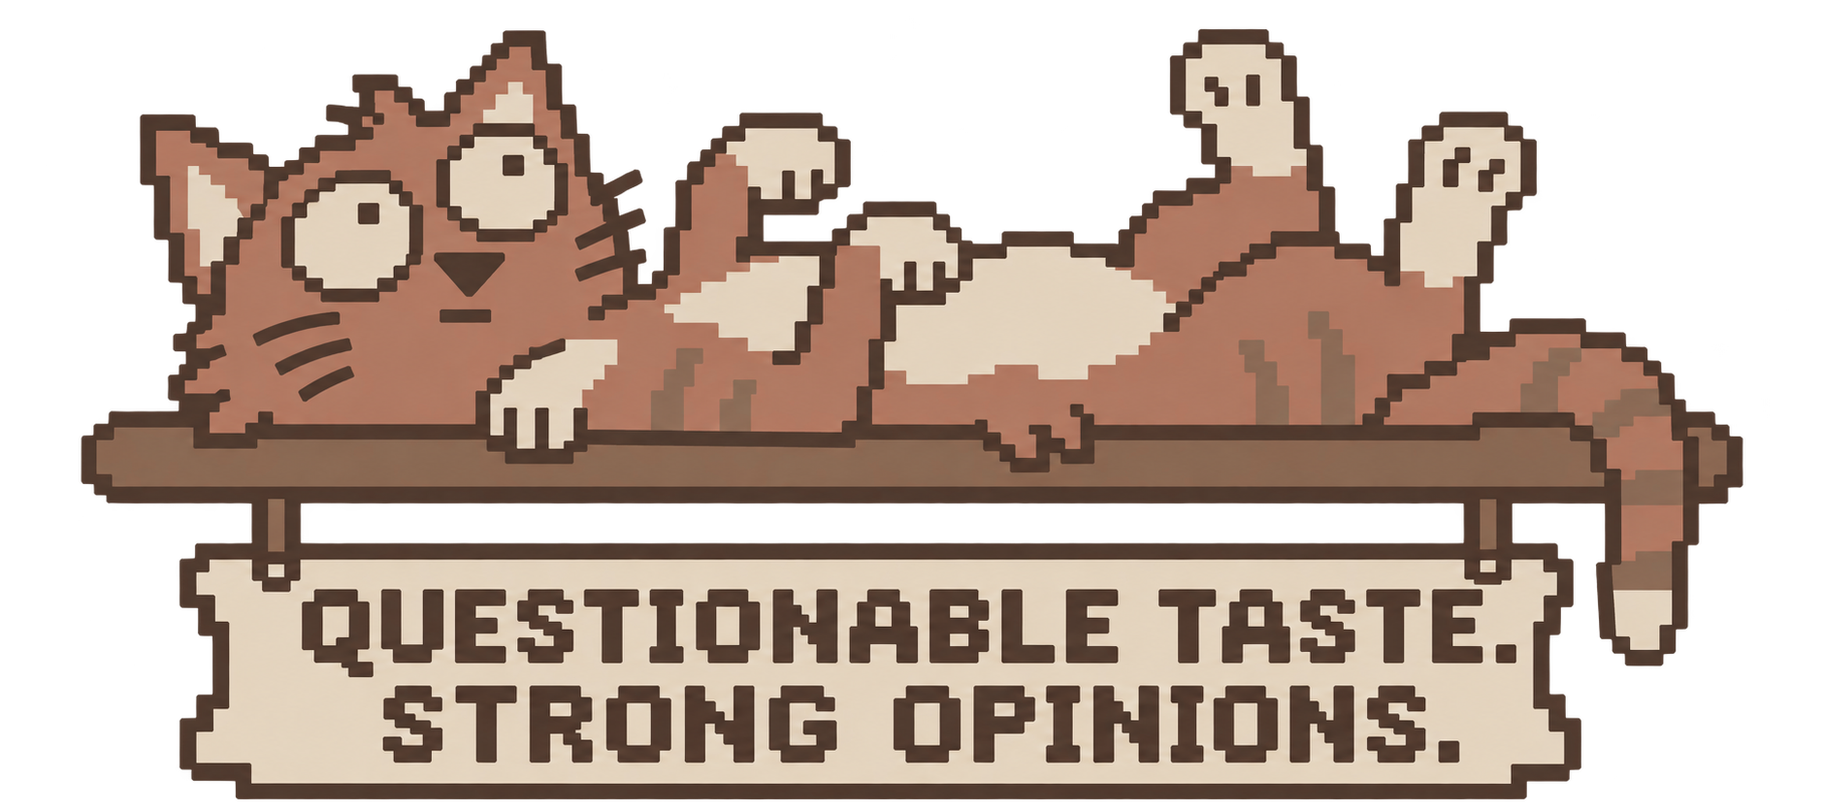
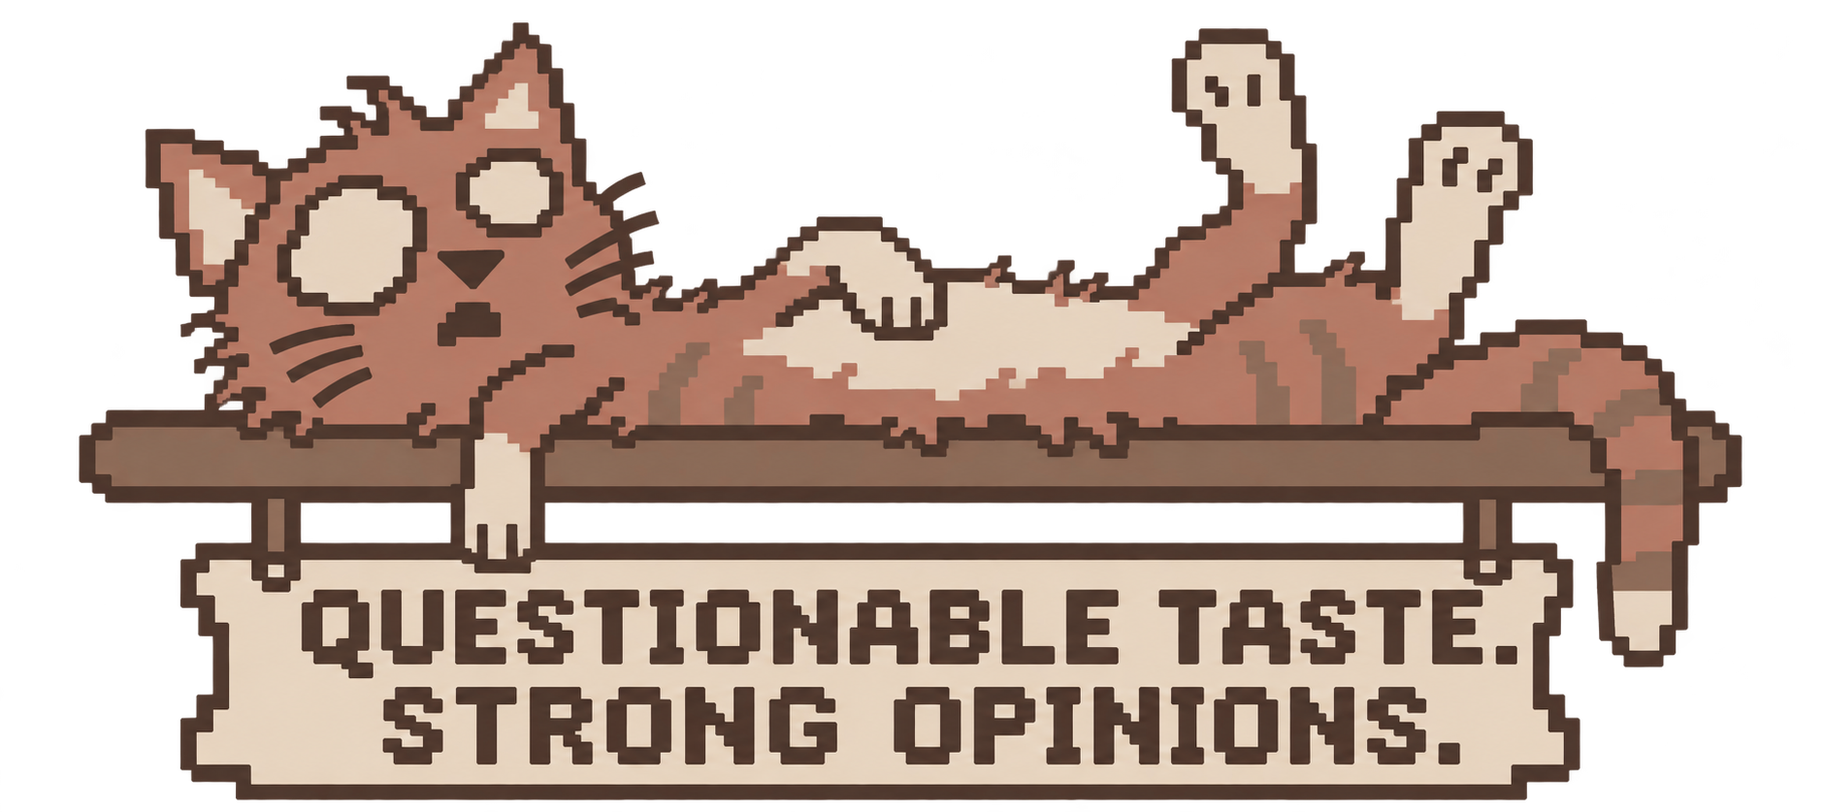
Add fractional bean slider and refine exhausted cat pose

diff --git a/src/App.jsx b/src/App.jsx
@@ -1,8 +1,8 @@
-import BeanRating from './BeanRating.jsx';
+import BeanRating,{coffeeVerdict} from './BeanRating.jsx';
 import Character from './Character.jsx';
 import React,{useState,useEffect} from 'react';
 const people=['Tiago','Sam','Archie'];
-const grades=['Piss','Regrettable','Barely coffee','It’ll do','Unremarkable','Decent','Worth a detour','Proper good','Outstanding','Coffee Excelence'];
+
 async function api(path,method='GET',data){const r=await fetch('/api/'+path,{method,headers:data?{'Content-Type':'application/json'}:undefined,body:data?JSON.stringify(data):undefined});const body=await r.json();if(!r.ok)throw new Error(body.error);return body;}
 export default function App({Cup,PourCard}){
  const routeName=people.find(p=>location.pathname==='/users/'+p.toLowerCase());
@@ -18,7 +18,7 @@ export default function App({Cup,PourCard}){
  return <main className="single full-app" data-roast={roast}><article className="study study-3"><header><span className="wordmark">sippin’<br/><i>diesel.</i><span className="mark-dot">✦</span></span><div className="club-perch"><img className="cat-banner" src="/assets/coffee/cat-banner.png" alt="A scruffy cat lying belly-up on a ledge above a banner: Questionable taste. Strong opinions."/></div></header>
  <div className="roast-picker"><button className="roast-trigger" aria-expanded={roastOpen} aria-controls="roast-panel" onClick={()=>setRoastOpen(!roastOpen)}><svg viewBox="0 0 24 24" width="21" height="21" fill="none" aria-hidden="true"><ellipse cx="12" cy="12" rx="7" ry="10" transform="rotate(35 12 12)" stroke="currentColor" strokeWidth="1.4"/><path d="M17 4c-8 3-1 12-10 16" stroke="currentColor" strokeWidth="1.4"/></svg><span>Roast level</span><small>{['Light','Medium','Dark','Midnight'][roast]}</small><span aria-hidden="true">{roastOpen?'−':'+'}</span></button>{roastOpen&&<div id="roast-panel" className="roast-panel" onKeyDown={e=>{if(e.key==='Escape'){setRoastOpen(false);e.currentTarget.parentElement.querySelector('button').focus();}}}><PourCard enabled><div className="roast-control"><span className="eyebrow">PALETTE TASTING / 0{roast+1}</span><label htmlFor="roast-level">Roast level <strong>{['Light · original','Medium','Dark','Midnight'][roast]}</strong></label><div className="roast-track" style={{'--roast-fill':`${roast/3*100}%`}}><input id="roast-level" type="range" min="0" max="3" step="1" value={roast} aria-valuetext={['Light, original palette','Medium roast','Dark roast','Midnight roast'][roast]} onChange={e=>setRoast(Number(e.target.value))}/></div><div className="roast-stops">{['Light','Medium','Dark','Midnight'].map((level,i)=><button key={level} aria-pressed={roast===i} onClick={()=>setRoast(i)}><i style={{background:['#dbb78b','#a76f43','#65402d','#30231c'][i]}}/>{level}</button>)}</div><p>A little darker. Same questionable taste.</p><button className="text-button" onClick={()=>setRoastOpen(false)}>That’s my roast ✓</button></div></PourCard></div>}</div>{user&&<nav><a href="#journal">The journal</a><a className="member" href="/">{user} · Switch person</a><button onClick={()=>setLeaveWarning(true)}>Leave the club</button></nav>}
  <section className={'hero '+(user?'member-hero':'')}><div className="eyebrow">TIAGO, SAM & ARCHIE</div><h1>“Meet you by<br/><em>the piss door”</em></h1><p>Three mates pretending they can taste the chocolate notes.</p><Cup rust/><span className="hero-caption">A PRIVATE COFFEE CLUB. VERY LOOSE STANDARDS.</span>{user&&<button className="primary" onClick={()=>setEditor({})}>＋ Log a coffee</button>}</section>
- {!ready?<p role="status">Putting the kettle on…</p>:!routeName?<section className="choose-person"><div className="section-title"><h2>Pick your usual suspect.</h2></div><p>Same password. Different questionable opinions.</p><div className="people-grid">{people.map(name=><PourCard key={name} enabled organic><a className="person-card" href={'/users/'+name.toLowerCase()}><Character name={name}/><h2>{name}</h2><span>{name==='Tiago'?'Strong coffee. Stronger opinions.':name==='Sam'?'A turtleneck does not count as expertise.':'All limbs. No tasting qualifications.'}</span><strong>That’s me ↗</strong></a></PourCard>)}</div></section>:!user?<form className="login-paper personal-login" onSubmit={login}><Character name={routeName}/><div className="eyebrow">MEMBERS ONLY, UNFORTUNATELY</div><h2>{routeName}, your usual?</h2><input type="hidden" name="name" value={routeName}/><label>Club password<input name="password" type="password" required autoComplete="current-password"/></label><button className="primary" disabled={busy}>{busy?'Opening the door…':'Let me in'}</button><a className="text-button" href="/">Not {routeName}? Pick your person.</a><p className="fine-print">One shared password. Three questionable palates.</p></form>:<section id="journal" className="app-journal"><div className="section-title"><h2>The latest pours</h2><span>{journal.reviews.length} ENTRIES / {journal.cafes.length} CAFÉS</span></div><div className="filters"><label>Find a café<input type="search" placeholder="Somewhere worth going back to…" value={filter} onChange={e=>setFilter(e.target.value)}/></label><label>Whose opinion?<select value={person} onChange={e=>setPerson(e.target.value)}>{['All',...people].map(p=><option key={p}>{p}</option>)}</select></label></div><div className="cafe-grid">{filtered.map((c,cafeIndex)=>{const reviews=journal.reviews.filter(r=>r.cafe_id===c.id&&(person==='All'||r.author===person));return <PourCard key={c.id} enabled>{reviews.length>0&&cafeIndex%3===0&&<img className="coffee-sticker cafe-sticker" src={'/assets/coffee/'+['beans','espresso','moka','filter','bag','croissant'][Array.from(c.id).reduce((sum,char)=>sum+char.charCodeAt(0),0)%6]+'.png'} alt="" aria-hidden="true"/>}<div className="cafe-heading"><div><span className="eyebrow">FIELD NOTES / {c.date_added_text||'THE NEXT FIND'}</span><h2>{c.name}</h2>{c.address&&<p>{c.address}</p>}</div><a className="maps-link" href={c.maps_url} target="_blank" rel="noreferrer">Maps ↗</a></div>{reviews.length?reviews.map(r=><article className="coffee-entry" key={r.id}>{Boolean(r.has_photo)&&<a href={'/api/photos/'+r.id} target="_blank" rel="noreferrer"><img className="review-photo" loading="lazy" src={'/api/photos/'+r.id+'?v='+encodeURIComponent(r.updated_at)} alt={`${r.coffee||'Coffee'} at ${c.name}, photographed by ${r.author}`}/></a>}<div className="entry-top"><h3>{r.coffee||'From the original coffee list'}</h3><BeanRating score={r.score}/></div><span className="grade-name">{grades[r.score-1]}</span><p className="tasting-note">{r.notes||'Lost for words. Apparently.'}</p><div className="entry-meta"><span>{r.author} · {r.visited_on||`${r.date_text} · year not recorded`}{r.milk?' · '+r.milk:''}</span>{r.author===user&&<button onClick={()=>setEditor(r)}>Edit</button>}</div></article>):<p className="empty-note">{person==='All'?'On the list. Still awaiting a verdict.':`${person} hasn’t weighed in here yet.`}</p>}<button className="text-button" onClick={()=>setEditor({cafe_id:c.id})}>＋ Another cup here</button></PourCard>})}</div>{!filtered.length&&<p>No cafés match that search.</p>}</section>}
+ {!ready?<p role="status">Putting the kettle on…</p>:!routeName?<section className="choose-person"><div className="section-title"><h2>Pick your usual suspect.</h2></div><p>Same password. Different questionable opinions.</p><div className="people-grid">{people.map(name=><PourCard key={name} enabled organic><a className="person-card" href={'/users/'+name.toLowerCase()}><Character name={name}/><h2>{name}</h2><span>{name==='Tiago'?'Strong coffee. Stronger opinions.':name==='Sam'?'A turtleneck does not count as expertise.':'All limbs. No tasting qualifications.'}</span><strong>That’s me ↗</strong></a></PourCard>)}</div></section>:!user?<form className="login-paper personal-login" onSubmit={login}><Character name={routeName}/><div className="eyebrow">MEMBERS ONLY, UNFORTUNATELY</div><h2>{routeName}, your usual?</h2><input type="hidden" name="name" value={routeName}/><label>Club password<input name="password" type="password" required autoComplete="current-password"/></label><button className="primary" disabled={busy}>{busy?'Opening the door…':'Let me in'}</button><a className="text-button" href="/">Not {routeName}? Pick your person.</a><p className="fine-print">One shared password. Three questionable palates.</p></form>:<section id="journal" className="app-journal"><div className="section-title"><h2>The latest pours</h2><span>{journal.reviews.length} ENTRIES / {journal.cafes.length} CAFÉS</span></div><div className="filters"><label>Find a café<input type="search" placeholder="Somewhere worth going back to…" value={filter} onChange={e=>setFilter(e.target.value)}/></label><label>Whose opinion?<select value={person} onChange={e=>setPerson(e.target.value)}>{['All',...people].map(p=><option key={p}>{p}</option>)}</select></label></div><div className="cafe-grid">{filtered.map((c,cafeIndex)=>{const reviews=journal.reviews.filter(r=>r.cafe_id===c.id&&(person==='All'||r.author===person));return <PourCard key={c.id} enabled>{reviews.length>0&&cafeIndex%3===0&&<img className="coffee-sticker cafe-sticker" src={'/assets/coffee/'+['beans','espresso','moka','filter','bag','croissant'][Array.from(c.id).reduce((sum,char)=>sum+char.charCodeAt(0),0)%6]+'.png'} alt="" aria-hidden="true"/>}<div className="cafe-heading"><div><span className="eyebrow">FIELD NOTES / {c.date_added_text||'THE NEXT FIND'}</span><h2>{c.name}</h2>{c.address&&<p>{c.address}</p>}</div><a className="maps-link" href={c.maps_url} target="_blank" rel="noreferrer">Maps ↗</a></div>{reviews.length?reviews.map(r=><article className="coffee-entry" key={r.id}>{Boolean(r.has_photo)&&<a href={'/api/photos/'+r.id} target="_blank" rel="noreferrer"><img className="review-photo" loading="lazy" src={'/api/photos/'+r.id+'?v='+encodeURIComponent(r.updated_at)} alt={`${r.coffee||'Coffee'} at ${c.name}, photographed by ${r.author}`}/></a>}<div className="entry-top"><h3>{r.coffee||'From the original coffee list'}</h3><BeanRating score={r.score}/></div><span className="grade-name">{coffeeVerdict(r.score)}</span><p className="tasting-note">{r.notes||'Lost for words. Apparently.'}</p><div className="entry-meta"><span>{r.author} · {r.visited_on||`${r.date_text} · year not recorded`}{r.milk?' · '+r.milk:''}</span>{r.author===user&&<button onClick={()=>setEditor(r)}>Edit</button>}</div></article>):<p className="empty-note">{person==='All'?'On the list. Still awaiting a verdict.':`${person} hasn’t weighed in here yet.`}</p>}<button className="text-button" onClick={()=>setEditor({cafe_id:c.id})}>＋ Another cup here</button></PourCard>})}</div>{!filtered.length&&<p>No cafés match that search.</p>}</section>}
  {leaveWarning&&<div className="club-warning" role="alert"><strong>You wish.</strong><p>You’re in this coffee club for life. Sorry about that.</p><button className="text-button" onClick={()=>setLeaveWarning(false)}>Fine. Put the kettle on.</button></div>}{error&&<p role="alert" className="error">{error}</p>}{install&&<button className="install-button" onClick={async()=>{await install.prompt();setInstall(null);}}>Install the coffee club ↗</button>}<footer><span>From Piss to Coffee Excelence.</span><span>SD / THREE MATES, NO QUALIFICATIONS</span></footer></article>{editor&&<Editor review={editor} cafes={journal.cafes} close={()=>setEditor(null)} saved={async()=>{await refresh();setEditor(null);}}/>}</main>;
 }
 function Editor({review,cafes,close,saved}){
@@ -27,5 +27,5 @@ function Editor({review,cafes,close,saved}){
  async function readPhoto(e){const file=e.target.files[0];if(!file)return;if(file.size>6000000){setError('Please choose a photo under 6 MB.');return;}const reader=new FileReader();reader.onload=()=>{setPhoto(reader.result);setError('');};reader.onerror=()=>setError('Could not read the photo.');reader.readAsDataURL(file);}
  async function submit(e){e.preventDefault();setBusy(true);setError('');try{const data=Object.fromEntries(new FormData(e.currentTarget));delete data.upload;Object.assign(data,{score:Number(score),cafeId:cafe,photo});await api('reviews'+(review.id?'/'+review.id:''),review.id?'PUT':'POST',data);await saved();}catch(e){setError(e.message);}finally{setBusy(false);}}
  async function remove(){setBusy(true);try{await api('reviews/'+review.id,'DELETE');await saved();}catch(e){setError(e.message);setBusy(false);}}
- return <dialog open ref={el=>{if(el&&!el.dataset.modal){el.close();el.showModal();el.dataset.modal='true';}}} onCancel={e=>{e.preventDefault();if(!busy)close();}} className="entry-dialog"><form onSubmit={submit}><div className="dialog-heading"><h2>{review.id?'Revise your verdict':'Another questionable opinion'}</h2><button type="button" aria-label="Close" disabled={busy} onClick={close}>×</button></div><label>Café<select value={cafe} onChange={e=>setCafe(e.target.value)}>{cafes.map(c=><option key={c.id} value={c.id}>{c.name}</option>)}<option value="">＋ Somewhere new</option></select></label>{!cafe&&<><label>Café name<input name="cafeName" required maxLength={150}/></label><label>Address / city<input name="address" maxLength={250}/></label><label>Google Maps link (optional)<input name="mapsUrl" type="url" placeholder="https://maps.app.goo.gl/…"/></label></>}<div className="form-row"><label>Your coffee<input autoFocus name="coffee" required maxLength={100} defaultValue={review.coffee||''} placeholder="Flat white, espresso…"/></label><label>Milk (optional)<input name="milk" maxLength={50} defaultValue={review.milk||''} placeholder="Oat, whole, none…"/></label></div><label>Visit date<input name="visitedOn" type="date" required defaultValue={review.visited_on||(review.id?'':new Date(Date.now()-new Date().getTimezoneOffset()*60000).toISOString().slice(0,10))}/></label>{review.id&&!review.visited_on&&<p className="fine-print">The imported entry has no year or drink recorded. Add those details to save an edit.</p>}<fieldset className="bean-field"><legend>Your verdict · {grades[score-1]}</legend><BeanRating score={score} onChange={setScore}/><div className="range-ends"><span>Piss</span><span>Coffee Excelence</span></div><p className="fine-print">Each half-bean is one point. Use the arrow keys or tap a half.</p></fieldset><label>Tasting notes<textarea name="notes" rows="4" maxLength={4000} defaultValue={review.notes||''} placeholder="Chocolate notes or just wishful thinking?"/></label><label>Photo · JPEG, PNG or WebP, up to 6 MB<input name="upload" type="file" accept="image/jpeg,image/png,image/webp" onChange={readPhoto}/></label>{(photo||photo===undefined&&review.has_photo)&&<><img className="photo-preview" src={photo||'/api/photos/'+review.id} alt="Coffee photo preview"/><button type="button" className="text-button" onClick={()=>setPhoto(null)}>Remove photo</button></>}{error&&<p role="alert" className="error">{error}</p>}<button className="primary" disabled={busy}>{busy?'Saving…':'File the opinion'}</button>{review.id&&<div className="delete-controls">{confirmDelete?<><span>Delete this entry permanently?</span><button type="button" disabled={busy} onClick={remove}>Yes, delete</button><button type="button" onClick={()=>setConfirmDelete(false)}>Keep it</button></>:<button type="button" onClick={()=>setConfirmDelete(true)}>Delete entry</button>}</div>}</form></dialog>;
+ return <dialog open ref={el=>{if(el&&!el.dataset.modal){el.close();el.showModal();el.dataset.modal='true';}}} onCancel={e=>{e.preventDefault();if(!busy)close();}} className="entry-dialog"><form onSubmit={submit}><div className="dialog-heading"><h2>{review.id?'Revise your verdict':'Another questionable opinion'}</h2><button type="button" aria-label="Close" disabled={busy} onClick={close}>×</button></div><label>Café<select value={cafe} onChange={e=>setCafe(e.target.value)}>{cafes.map(c=><option key={c.id} value={c.id}>{c.name}</option>)}<option value="">＋ Somewhere new</option></select></label>{!cafe&&<><label>Café name<input name="cafeName" required maxLength={150}/></label><label>Address / city<input name="address" maxLength={250}/></label><label>Google Maps link (optional)<input name="mapsUrl" type="url" placeholder="https://maps.app.goo.gl/…"/></label></>}<div className="form-row"><label>Your coffee<input autoFocus name="coffee" required maxLength={100} defaultValue={review.coffee||''} placeholder="Flat white, espresso…"/></label><label>Milk (optional)<input name="milk" maxLength={50} defaultValue={review.milk||''} placeholder="Oat, whole, none…"/></label></div><label>Visit date<input name="visitedOn" type="date" required defaultValue={review.visited_on||(review.id?'':new Date(Date.now()-new Date().getTimezoneOffset()*60000).toISOString().slice(0,10))}/></label>{review.id&&!review.visited_on&&<p className="fine-print">The imported entry has no year or drink recorded. Add those details to save an edit.</p>}<fieldset className="bean-field"><legend>Your verdict</legend><BeanRating score={score} onChange={setScore}/></fieldset><label>Tasting notes<textarea name="notes" rows="4" maxLength={4000} defaultValue={review.notes||''} placeholder="Chocolate notes or just wishful thinking?"/></label><label>Photo · JPEG, PNG or WebP, up to 6 MB<input name="upload" type="file" accept="image/jpeg,image/png,image/webp" onChange={readPhoto}/></label>{(photo||photo===undefined&&review.has_photo)&&<><img className="photo-preview" src={photo||'/api/photos/'+review.id} alt="Coffee photo preview"/><button type="button" className="text-button" onClick={()=>setPhoto(null)}>Remove photo</button></>}{error&&<p role="alert" className="error">{error}</p>}<button className="primary" disabled={busy}>{busy?'Saving…':'File the opinion'}</button>{review.id&&<div className="delete-controls">{confirmDelete?<><span>Delete this entry permanently?</span><button type="button" disabled={busy} onClick={remove}>Yes, delete</button><button type="button" onClick={()=>setConfirmDelete(false)}>Keep it</button></>:<button type="button" onClick={()=>setConfirmDelete(true)}>Delete entry</button>}</div>}</form></dialog>;
 }

diff --git a/src/style.css b/src/style.css
@@ -56,3 +56,4 @@ html{scroll-behavior:smooth}button,input,select,textarea{font:inherit}button,a,i
 @media(prefers-reduced-motion:reduce){.coffee-sticker{transform:rotate(-10deg);transition:none}.people-grid .organic-card{transform:translateY(var(--rest-offset,0px)) rotate(var(--rest-tilt,0deg))!important}}
 .full-app .card-foil{background:radial-gradient(ellipse 55% 45% at var(--glint-x,50%) var(--glint-y,50%),#e9cb8c30,transparent 75%);mask-image:none;opacity:.22;transition:opacity .2s;mix-blend-mode:soft-light}.full-app .pour-perspective:hover .card-foil{opacity:.4}
 .bean-rating{display:flex;align-items:center;gap:9px;color:var(--accent);flex-shrink:0}.five-beans{display:flex;gap:3px;align-items:center}.rating-bean{display:block;position:relative;width:17px;height:24px}.rating-bean svg{display:block;width:100%;height:100%;overflow:visible}.bean-number{font-size:13px;white-space:nowrap;color:var(--ink)}.bean-number small{font-size:10px;color:var(--muted)}.entry-top{flex-wrap:wrap}.entry-top h3{flex:1;min-width:130px}.bean-field{padding:16px 0;border:0;border-top:1px solid var(--line);border-bottom:1px solid var(--line);margin:22px 0}.bean-field legend{font-size:13px;padding:0 8px 0 0}.editable-beans{justify-content:center;margin:14px 0 20px;gap:16px}.editable-beans .rating-bean{width:46px;height:54px}.editable-beans .five-beans{gap:5px}.editable-beans .bean-number{font-size:22px}.bean-hit{position:absolute!important;top:0;width:50%;height:100%;margin:0!important;padding:0!important;cursor:pointer}.half-1{left:0}.half-2{right:0}.bean-hit input{position:absolute;opacity:0;width:100%;height:100%;margin:0;cursor:pointer}.bean-hit>span{position:absolute;inset:0;pointer-events:none;border-radius:4px}.bean-hit:has(input:focus-visible)>span{outline:2px solid var(--accent);outline-offset:3px}.bean-field .fine-print{margin-bottom:0}.full-app .bean-hit{display:block}@media(max-width:420px){.editable-beans .rating-bean{width:39px;height:48px}.editable-beans{gap:10px}}
+.bean-slider-control{padding:0 4px}.coffee-score-slider{-webkit-appearance:none;appearance:none;width:100%;height:6px;margin:4px 0 20px;border-radius:5px;background:linear-gradient(to right,var(--accent) var(--score-fill),var(--line) var(--score-fill));cursor:pointer}.coffee-score-slider::-webkit-slider-thumb{-webkit-appearance:none;width:23px;height:28px;transform:rotate(25deg);border:2px solid var(--card);border-radius:50%;background:linear-gradient(90deg,var(--accent) 44%,var(--card) 46% 52%,var(--accent) 54%);box-shadow:0 0 0 1px var(--accent);cursor:grab}.coffee-score-slider::-moz-range-thumb{width:22px;height:26px;border:2px solid var(--card);border-radius:50%;background:var(--accent);cursor:grab}.live-verdict{display:block;text-align:center;font:italic 25px/1.4 'Cormorant Garamond';color:var(--accent);min-height:36px}.editable-beans{margin-bottom:22px}

diff --git a/src/BeanRating.jsx b/src/BeanRating.jsx
@@ -1,3 +1,5 @@
 import React,{useId} from 'react';
+const verdicts=['Piss','Piss, with ambition','A plumbing incident','Bean-adjacent','Hot disappointment','The milk tried its best','Technically a beverage','Would drink in a power cut','Aggressively average','The bar is on the floor','Suspiciously drinkable','The beans have an alibi','Worth putting trousers on','We’re becoming insufferable','Annoyingly good','Might write a poem about it','Financially irresponsible','Almost a personality trait','Coffee Excelence'];
+export const coffeeVerdict=score=>verdicts[Math.max(0,Math.min(18,Math.round((score-1)*2)))];
 function Bean({fill}){const id=useId();return <svg viewBox="0 0 32 40" aria-hidden="true"><defs><linearGradient id={id}><stop offset={fill+'%'} stopColor="currentColor"/><stop offset={fill+'%'} stopColor="transparent"/></linearGradient></defs><path d="M25 4C14-3 2 9 3 23s12 19 21 9S35 10 25 4Z" fill={`url(#${id})`} stroke="currentColor" strokeWidth="1.8"/><path d="M23 5C12 13 23 23 10 34" stroke="var(--card)" strokeWidth="2.2" fill="none"/></svg>}
-export default function BeanRating({score,onChange}){return <div className={'bean-rating '+(onChange?'editable-beans':'')}><div className="five-beans" {...(!onChange?{role:'img','aria-label':`${score} out of 10, ${score/2} of 5 coffee beans`}:{})}>{Array.from({length:5},(_,i)=><span className="rating-bean" key={i}><Bean fill={Math.max(0,Math.min(100,(score-i*2)*50))}/>{onChange&&[1,2].map(half=>{const value=i*2+half;return <label key={half} className={'bean-hit half-'+half}><input type="radio" name="beanScore" value={value} checked={score===value} onChange={()=>onChange(value)} aria-label={`${value} out of 10`}/><span/></label>})}</span>)}</div><span className="bean-number">{score}<small>/10</small></span></div>}
+export default function BeanRating({score,onChange}){return <div className={onChange?'bean-slider-control':''}><div className={'bean-rating '+(onChange?'editable-beans':'')}><div className="five-beans" role="img" aria-label={`${score} out of 10`}>{Array.from({length:5},(_,i)=><span className="rating-bean" key={i}><Bean fill={Math.max(0,Math.min(100,(score-i*2)*50))}/></span>)}</div><span className="bean-number">{score}<small>/10</small></span></div>{onChange&&<><input className="coffee-score-slider" type="range" min="1" max="10" step="0.5" value={score} onChange={e=>onChange(Number(e.target.value))} aria-label="Coffee rating" aria-valuetext={`${score} out of 10: ${coffeeVerdict(score)}`} style={{'--score-fill':`${(score-1)/9*100}%`}}/><output className="live-verdict">{coffeeVerdict(score)}</output></>}</div>}

diff --git a/design-brief.md b/design-brief.md
@@ -49,3 +49,5 @@ Follow-up: simplify cat emblem further to an 8-bit look with a coarse pixel grid
 Latest decisions: return cat to simplified 16-bit style, with visible nose and readable small banner. Five coffee beans represent unchanged scores out of ten, each half-bean one point; original 8/10 and 7/10 remain unchanged. Six corner accents available: beans, espresso, moka pot, pour-over filter, coffee bag, croissant. New four assets generated with coarse-pixel low-detail warm palette and transparent backgrounds for small-size readability. Accent selection is stable per café and remains sparse. Maps preview research pending source choice; retain accurate Google Maps deep links in the meantime.
 
 Cat palette refinement via built-in image edit: recolour only to dusty terracotta #a97459, taupe #ad9277, parchment #e7ddc8, espresso outline #574337 and walnut ledge #83644e. Preserve pose, pixel grid, nose, silhouette, transparent background and banner wording. Reduce saturation so the emblem sits within Field Notes rather than competing with it.
+
+Rating refinement: native slider in 0.5-point increments from 1–10 progressively fills five beans. Live self-deprecating verdicts replace endpoint explanations; 8.5 = “Might write a poem about it”. API validates half-point increments; persistence test includes 8.5 and rejects 8.25. Cat image edit preserves muted palette and banner, adds open mouth, dangling front leg and stronger existential stare, removes extra neck paw; exactly four legs.
